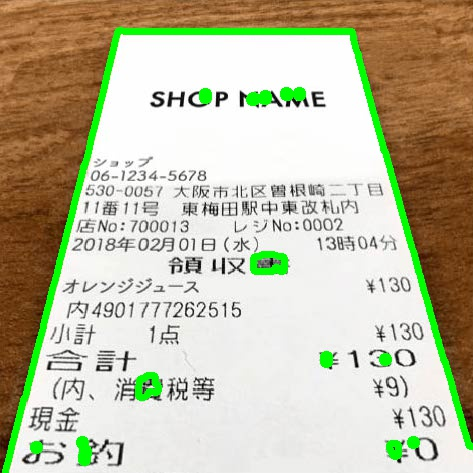
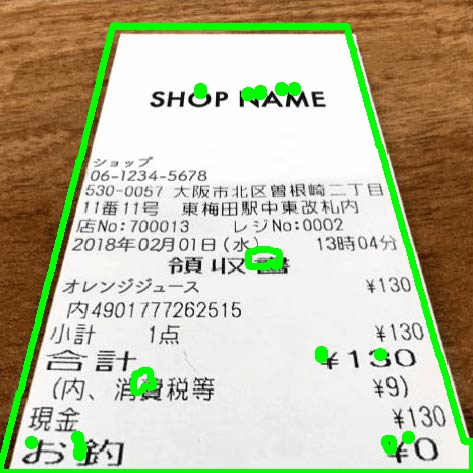
射影変換

diff --git a/src/main.rs b/src/main.rs
@@ -1,8 +1,8 @@
-use opencv::core::{Mat, Vector, Size, Point, Scalar, BORDER_WRAP, BORDER_TRANSPARENT, BORDER_REPLICATE, CV_8UC3, no_array, VectorExtern, norm};
+use opencv::core::{Mat, Vector, Size, Point, Scalar, BORDER_WRAP, BORDER_TRANSPARENT, BORDER_REPLICATE, CV_8UC3, no_array, VectorExtern, norm, Point2f, DECOMP_LU};
 use opencv::imgcodecs::{IMREAD_GRAYSCALE, IMREAD_COLOR, imwrite};
-use opencv::imgproc::{get_structuring_element, find_contours, threshold, morphology_ex, contour_area, draw_contours, arc_length, approx_poly_dp, circle};
+use opencv::imgproc::{get_structuring_element, find_contours, threshold, morphology_ex, contour_area, draw_contours, arc_length, approx_poly_dp, circle, get_perspective_transform, warp_perspective};
 use opencv::imgproc::{THRESH_OTSU, MORPH_OPEN, MORPH_CLOSE, MORPH_RECT, RETR_CCOMP, RETR_EXTERNAL, CHAIN_APPROX_SIMPLE, INTER_MAX, LINE_8, INTER_NEAREST, RETR_LIST};
-use opencv::types::{VectorOfVectorOfPoint, VectorOfPoint};
+use opencv::types::{VectorOfVectorOfPoint, VectorOfPoint, VectorOfPoint2f};
 use opencv::core::NormTypes::NORM_L1;
 use std::error::Error;
 
@@ -208,65 +208,75 @@ fn main(){
 
     ////// 座標を左上、右上、右下、左下に分類する ここまで //////
 
-    ////// 図形が台形であるか判定 ここから //////
-    // 以下の全てが当てはまらない場合に補正を行う。
-    // 左上の頂点のX座標と左下の頂点のX座標が同じである
-    // 左上の頂点のY座標と右上の頂点のY座標が同じである
-    // 右上の頂点のX座標と右下の頂点のX座標が同じである
-    // 左下の頂点のY座標と右下の頂点のY座標が同じである
+    ////// 台形補正処理 ここから //////
 
-    let lr = is_parallel(left_up, left_down, right_up, right_down);
-    let ud = is_parallel(left_up, Point::new(347, 0), left_down, right_down);
+    let upper_line = ((right_up.x - left_up.x).abs() ^ 2) + ((right_up.y - left_up.y).abs() ^ 2);
+    let downer_line = ((right_down.x - left_down.x).abs() ^ 2) + ((right_down.y - left_down.y).abs() ^ 2);
+    let left_line = ((left_up.x - left_down.x).abs() ^ 2) + ((left_up.y - left_down.y).abs() ^ 2);
+    let right_line = ((right_up.x - right_down.x).abs() ^ 2) + ((right_up.y - right_down.y).abs() ^ 2);
 
-    // 許容誤差
-    const ALLOWABLE_ERROR: i32 = 2;
-
-    // 左上の頂点のX座標と左下の頂点のX座標が同じであるか
-    let left_up_x_eq_left_down_x = (left_up.x - ALLOWABLE_ERROR .. left_up.x + ALLOWABLE_ERROR).contains(&left_down.x);
-
-    // 左上の頂点のY座標と右上の頂点のY座標が同じであるか
-    let left_up_y_eq_right_up_y = (left_up.y - ALLOWABLE_ERROR .. left_up.y + ALLOWABLE_ERROR).contains(&right_up.y);
-
-    // 右上の頂点のX座標と右下の頂点のX座標が同じであるか
-    let right_up_x_eq_right_down_x = (right_up.x - ALLOWABLE_ERROR .. right_up.x + ALLOWABLE_ERROR).contains(&right_down.x);
-
-    // 左下の頂点のY座標と右下の頂点のY座標が同じであるか
-    let left_down_y_eq_right_down_y = (left_down.y - ALLOWABLE_ERROR .. left_down.y + ALLOWABLE_ERROR).contains(&right_down.y);
-
-    if left_up_x_eq_left_down_x || left_up_y_eq_right_up_y || right_up_x_eq_right_down_x || left_down_y_eq_right_down_y {
-        println!("台形ではありません。{:?} {:?} {:?} {:?}", left_up_x_eq_left_down_x, left_up_y_eq_right_up_y, right_up_x_eq_right_down_x, left_down_y_eq_right_down_y);
+    let max_x = if upper_line > downer_line {
+        upper_line
     } else {
-        // 台形補正を行う
-        // output_img = 台形補正
+        downer_line
+    };
+
+    let max_y = if left_line > right_line {
+        left_line
+    } else {
+        right_line
+    };
+
+    // 元となる座標をVector<Point2f>に変換する
+
+    let mut vec_vertex_points2f: Vec<Point2f> = vec![];
+    for p in vertex_points.iter() {
+        vec_vertex_points2f.push(Point2f::new(p.x as f32, p.y as f32));
+    };
+
+    let vertex_points= VectorOfPoint2f::from(vec_vertex_points2f);
+
+    let left_up = Point2f::new(0.0,0.0);
+    let left_down = Point2f::new(0.0, max_y as f32);
+    let right_down = Point2f::new(max_x as f32, max_y as f32);
+    let right_up = Point2f::new(max_x as f32, 0.0);
+
+    let coordinate: Vector<Point2f> = Vector::from(vec![left_up, left_down, right_down, right_up]);
+
+    let mut m;
+    match get_perspective_transform(&vertex_points, &coordinate, DECOMP_LU) {
+        Ok(mat) => {
+            println!("{:?}", mat);
+            m= mat;
+        },
+        Err(code) => {
+            panic!("Error. Message: {}", code)
+        }
+    };
+
+    let mut src_img;
+    let result_read_img = opencv::imgcodecs::imread(SOURCE_IMAGE_PATH, IMREAD_COLOR);
+    match result_read_img {
+        Ok(img) => src_img = img,
+        Err(code) => {
+            print!("code: {:?}", code);
+            panic!();
+        }
+    };
+
+    let mut img_corrected = Mat::default();
+    match warp_perspective(&src_img, &mut img_corrected, &m, Default::default(), 0, 0, Default::default()) {
+        Ok(_) => {
+            println!("success");
+        },
+        Err(code) => {
+            panic!("{}", code);
+        }
     }
 
-    ////// 図形が台形であるか判定 ここまで //////
+    ////// 台形補正処理 ここまで //////
 
     // 全ての処理が終わったあと、画像を出力する
     println!("画像を出力します。");
-    imwrite("output.jpg", &output_img, &Vector::new());
-}
-
-// 線分abとcdが平行かどうか
-// 参考: http://www.atelier-blue.com/contest/pc-concours/2003-h/2003h01-25.htm
-fn is_parallel(mut a: Point, mut b: Point, mut c: Point, mut d: Point) -> bool {
-    // 点bから点aを、点dから点cを引く。そうすることにより、原点からからb,dそれぞれを通る直線に平行移動できる。
-    b.x -= a.x;
-    b.y -= a.y;
-    d.x -= c.x;
-    d.y -= c.y;
-
-    return if b.x == 0 || d.x == 0 {
-        if b.x == 0 && d.x == 0 {
-            true
-        } else {
-            false
-        }
-    } else {
-        if b.y / b.x == d.y / d.x {
-            true
-        } else {
-            false
-        }
-    }
+    imwrite("output.jpg", &img_corrected, &Vector::new());
 }
